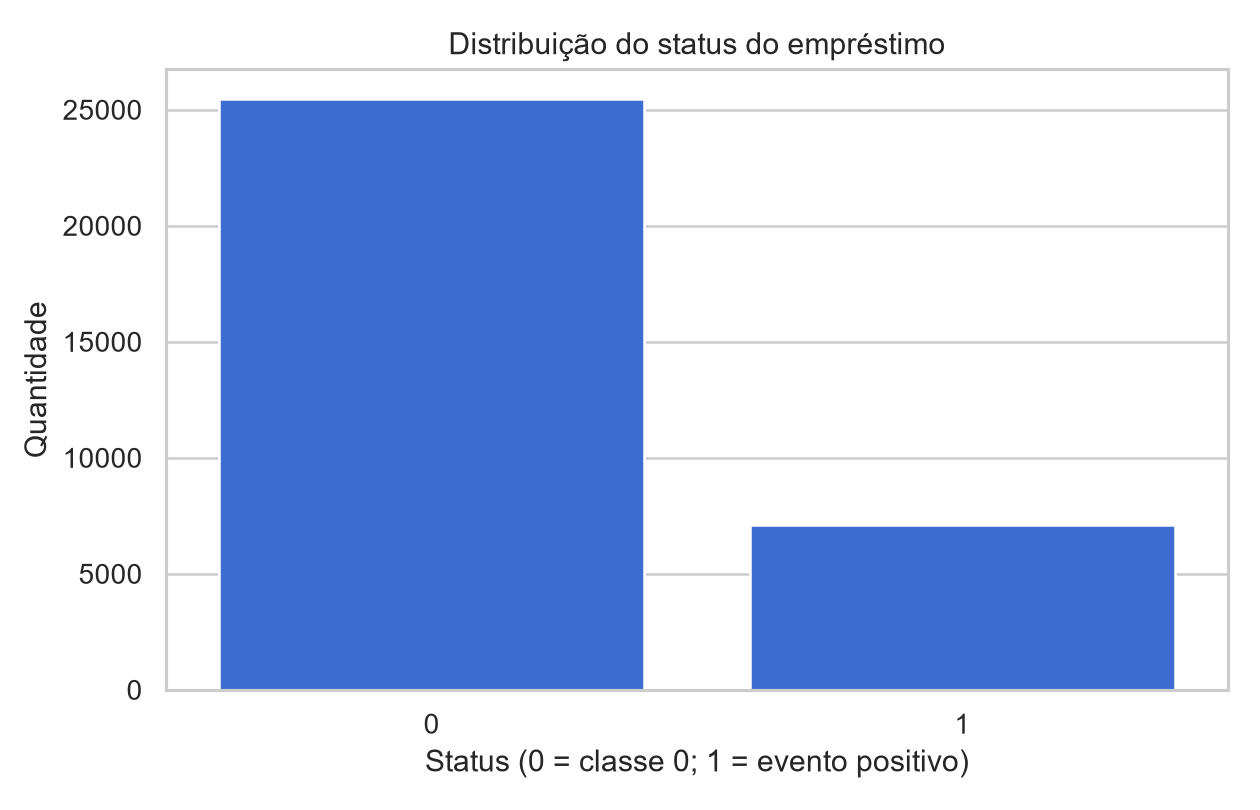
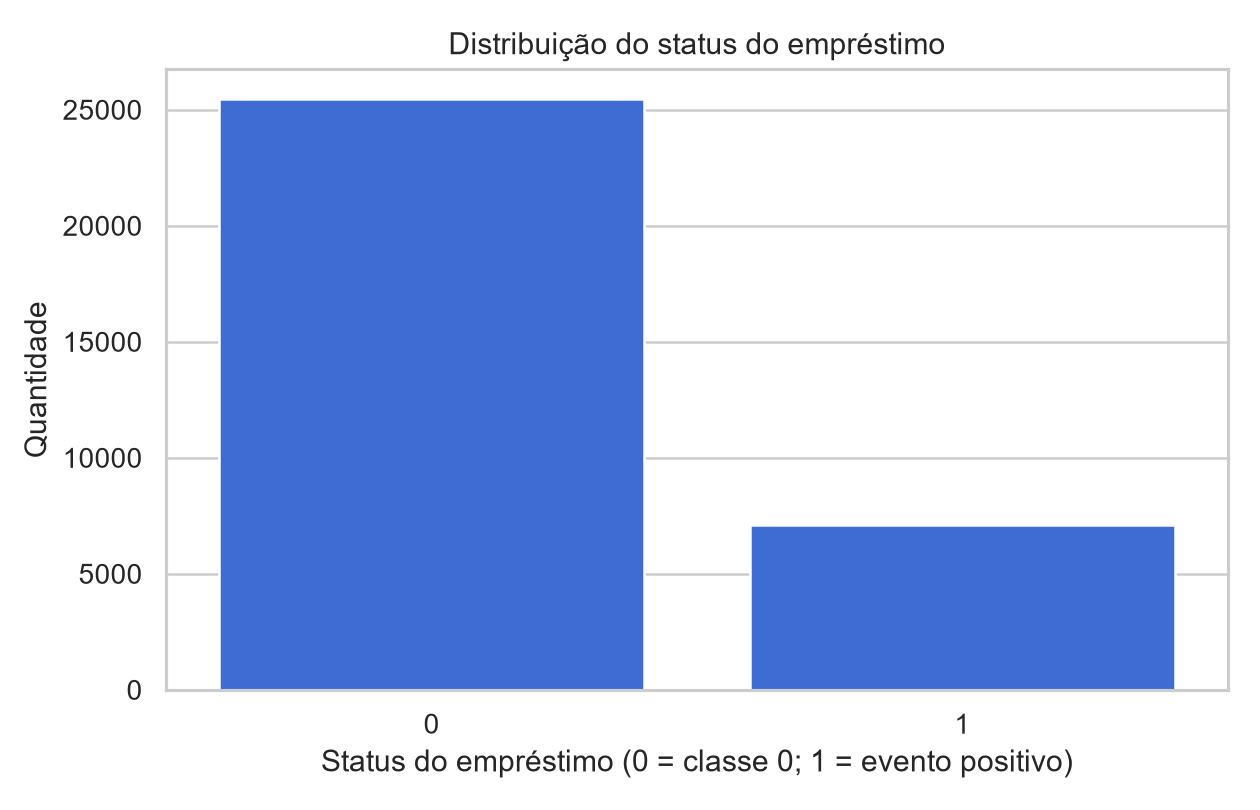
feat: Changed the column name in pt-br.

Changed region(s): [[0.2476, 0.9259, 0.8667, 0.9568]]

diff --git a/analyze_python.py b/analyze_python.py
@@ -35,47 +35,53 @@ CSV = "./data/raw/credit_risk_dataset.csv"
 
 df = pd.read_csv(CSV, sep=";", encoding="utf-8-sig")
 orig_cols = list(df.columns)
-rename = {
-    "idade": "age",
-    "renda": "income",
-    "tipo de propriedade da residência": "home_ownership",
-    "tempo de emprego": "employment_length",
-    "finalidade do empréstimo": "loan_intent",
-    "classificação do empréstimo": "loan_grade",
-    "valor do empréstimo": "loan_amount",
-    "taxa de juros do empréstimo": "interest_rate",
-    "status do empréstimo": "loan_status",
-    "Percentual da renda comprometido com o empréstimo": "loan_percent_income",
-    "histórico de inadimplência no cadastro de crédito": "cb_default_on_file",
-    "Tempo de histórico de crédito": "credit_history_length",
-}
-df = df.rename(columns=rename)
 num = [
-    "age",
-    "income",
-    "employment_length",
-    "loan_amount",
-    "interest_rate",
-    "loan_percent_income",
-    "credit_history_length",
+    "idade",
+    "renda",
+    "tempo de emprego",
+    "valor do empréstimo",
+    "taxa de juros do empréstimo",
+    "Percentual da renda comprometido com o empréstimo",
+    "Tempo de histórico de crédito",
 ]
-cat = ["home_ownership", "loan_intent", "loan_grade", "cb_default_on_file"]
-target = "loan_status"
+cat = [
+    "tipo de propriedade da residência",
+    "finalidade do empréstimo",
+    "classificação do empréstimo",
+    "histórico de inadimplência no cadastro de crédito",
+]
+target = "status do empréstimo"
+required_columns = num + cat + [target]
+missing_columns = [
+    column for column in required_columns if column not in df.columns
+]
+if missing_columns:
+    raise ValueError(f"Colunas ausentes no CSV: {', '.join(missing_columns)}")
+
 
 # qualidade
 missing = df.isna().sum().to_dict()
 duplicates = int(df.duplicated().sum())
 invalid = {
-    "age_nonpositive": int((df.age <= 0).sum()),
-    "income_nonpositive": int((df.income <= 0).sum()),
-    "employment_negative": int((df.employment_length < 0).sum()),
-    "loan_amount_nonpositive": int((df.loan_amount <= 0).sum()),
-    "interest_rate_nonpositive": int((df.interest_rate <= 0).sum()),
-    "loan_percent_income_outside_0_1": int(
-        ((df.loan_percent_income < 0) | (df.loan_percent_income > 1)).sum()
+    "idade_nao_positiva": int((df["idade"] <= 0).sum()),
+    "renda_nao_positiva": int((df["renda"] <= 0).sum()),
+    "tempo_emprego_negativo": int((df["tempo de emprego"] < 0).sum()),
+    "valor_emprestimo_nao_positivo": int(
+        (df["valor do empréstimo"] <= 0).sum()
     ),
-    "credit_history_negative": int((df.credit_history_length < 0).sum()),
-    "target_not_binary": int((~df[target].isin([0, 1])).sum()),
+    "taxa_juros_nao_positiva": int(
+        (df["taxa de juros do empréstimo"] <= 0).sum()
+    ),
+    "percentual_renda_emprestimo_fora_0_1": int(
+        (
+            (df["Percentual da renda comprometido com o empréstimo"] < 0)
+            | (df["Percentual da renda comprometido com o empréstimo"] > 1)
+        ).sum()
+    ),
+    "historico_credito_negativo": int(
+        (df["Tempo de histórico de crédito"] < 0).sum()
+    ),
+    "status_emprestimo_nao_binario": int((~df[target].isin([0, 1])).sum()),
 }
 summary = df[num].describe().round(4).to_dict()
 cardinality = {
@@ -119,14 +125,20 @@ sns.set_theme(style="whitegrid", context="notebook")
 plt.figure(figsize=(7, 4.5))
 sns.countplot(data=df, x=target, color="#2563eb")
 plt.title("Distribuição do status do empréstimo")
-plt.xlabel("Status (0 = classe 0; 1 = evento positivo)")
+plt.xlabel("Status do empréstimo (0 = classe 0; 1 = evento positivo)")
 plt.ylabel("Quantidade")
 plt.tight_layout()
 plt.savefig(f"{FIG}/01_target_distribution.png", dpi=180)
 plt.close()
 fig, axes = plt.subplots(2, 2, figsize=(12, 8))
 for ax, c in zip(
-    axes.flat, ["income", "loan_amount", "interest_rate", "loan_percent_income"]
+    axes.flat,
+    [
+        "renda",
+        "valor do empréstimo",
+        "taxa de juros do empréstimo",
+        "Percentual da renda comprometido com o empréstimo",
+    ],
 ):
     sns.boxplot(data=df, x=target, y=c, ax=ax, color="#60a5fa")
     ax.set_title(c)
@@ -142,12 +154,18 @@ plt.savefig(f"{FIG}/03_correlation.png", dpi=180)
 plt.close()
 fig, axes = plt.subplots(2, 2, figsize=(13, 9))
 for ax, c in zip(
-    axes.flat, ["loan_grade", "home_ownership", "loan_intent", "cb_default_on_file"]
+    axes.flat,
+    [
+        "classificação do empréstimo",
+        "tipo de propriedade da residência",
+        "finalidade do empréstimo",
+        "histórico de inadimplência no cadastro de crédito",
+    ],
 ):
     rates = df.groupby(c)[target].mean().sort_values(ascending=False)
     sns.barplot(x=rates.values, y=rates.index, ax=ax, color="#0f766e")
-    ax.set_title("Taxa de pagamento por " + c)
-    ax.set_xlabel("Média de loan_status")
+    ax.set_title("Taxa da classe positiva por " + c)
+    ax.set_xlabel("Média de status do empréstimo")
     ax.set_ylabel("")
 plt.tight_layout()
 plt.savefig(f"{FIG}/04_categorical_payment_rates.png", dpi=180)
@@ -274,7 +292,11 @@ plt.savefig(f"{FIG}/06_permutation_importance.png", dpi=180)
 plt.close()
 # diagnósticos de subgrupo no limiar padrão
 subgroup = {}
-for c in ["cb_default_on_file", "loan_grade", "home_ownership"]:
+for c in [
+    "histórico de inadimplência no cadastro de crédito",
+    "classificação do empréstimo",
+    "tipo de propriedade da residência",
+]:
     rows = []
     for level, g in df.loc[X_test.index].assign(_y=y_test).groupby(c):
         idx = g.index
@@ -296,7 +318,7 @@ output = {
         "rows": int(df.shape[0]),
         "columns": int(df.shape[1]),
         "original_columns": orig_cols,
-        "normalized_columns": list(df.columns),
+        "columns": list(df.columns),
         "dtypes": {c: str(t) for c, t in df.dtypes.items()},
     },
     "quality": {"missing": missing, "duplicates": duplicates, "invalid": invalid},

diff --git a/README.md b/README.md
@@ -2,7 +2,7 @@
 
 Projeto acadêmico desenvolvido para a disciplina **Data Modeling**, do curso **Tecnologia em Banco de Dados** da **Faculdade Impacta**.
 
-A equipe Data Avengers explora dados de crédito e compara modelos de classificação para analisar a variável `loan_status`.
+A equipe Data Avengers explora dados de crédito e compara modelos de classificação para analisar a variável `status do empréstimo`.
 
 ## Fonte dos dados
 
@@ -14,7 +14,7 @@ Para executar a análise, disponibilize o arquivo preparado em:
 data/raw/credit_risk_dataset.csv
 ```
 
-O script espera um CSV separado por ponto e vírgula (`;`), codificado em UTF-8 (com ou sem BOM), com os cabeçalhos em português reconhecidos pelo código. Ele renomeia esses campos para nomes em inglês durante a análise. O arquivo disponível neste projeto serve como referência do formato esperado.
+O script espera um CSV separado por ponto e vírgula (`;`), codificado em UTF-8 (com ou sem BOM), com os cabeçalhos em português usados pelo conjunto de dados. Esses nomes são mantidos ao longo da análise e na exportação intermediária. O arquivo disponível neste projeto serve como referência do formato esperado.
 
 ## Requisitos
 
@@ -50,7 +50,7 @@ A classe `1` é tratada pelo código como a classe positiva. A interpretação d
 ## Arquivos gerados
 
 - `artifacts/analysis_results.json`: métricas, estatísticas, verificações de qualidade, importância das variáveis e diagnósticos por subgrupo.
-- `data/interim/cleaned_credit_risk_dataset.csv`: CSV exportado com os nomes das colunas padronizados. A imputação usada nos modelos não é aplicada a essa exportação.
+- `data/interim/cleaned_credit_risk_dataset.csv`: CSV exportado com os nomes originais das colunas em português. A imputação usada nos modelos não é aplicada a essa exportação.
 - `figures/01_target_distribution.png`: distribuição do alvo.
 - `figures/02_numeric_by_target.png`: variáveis numéricas por classe.
 - `figures/03_correlation.png`: correlação entre variáveis numéricas e o alvo.
